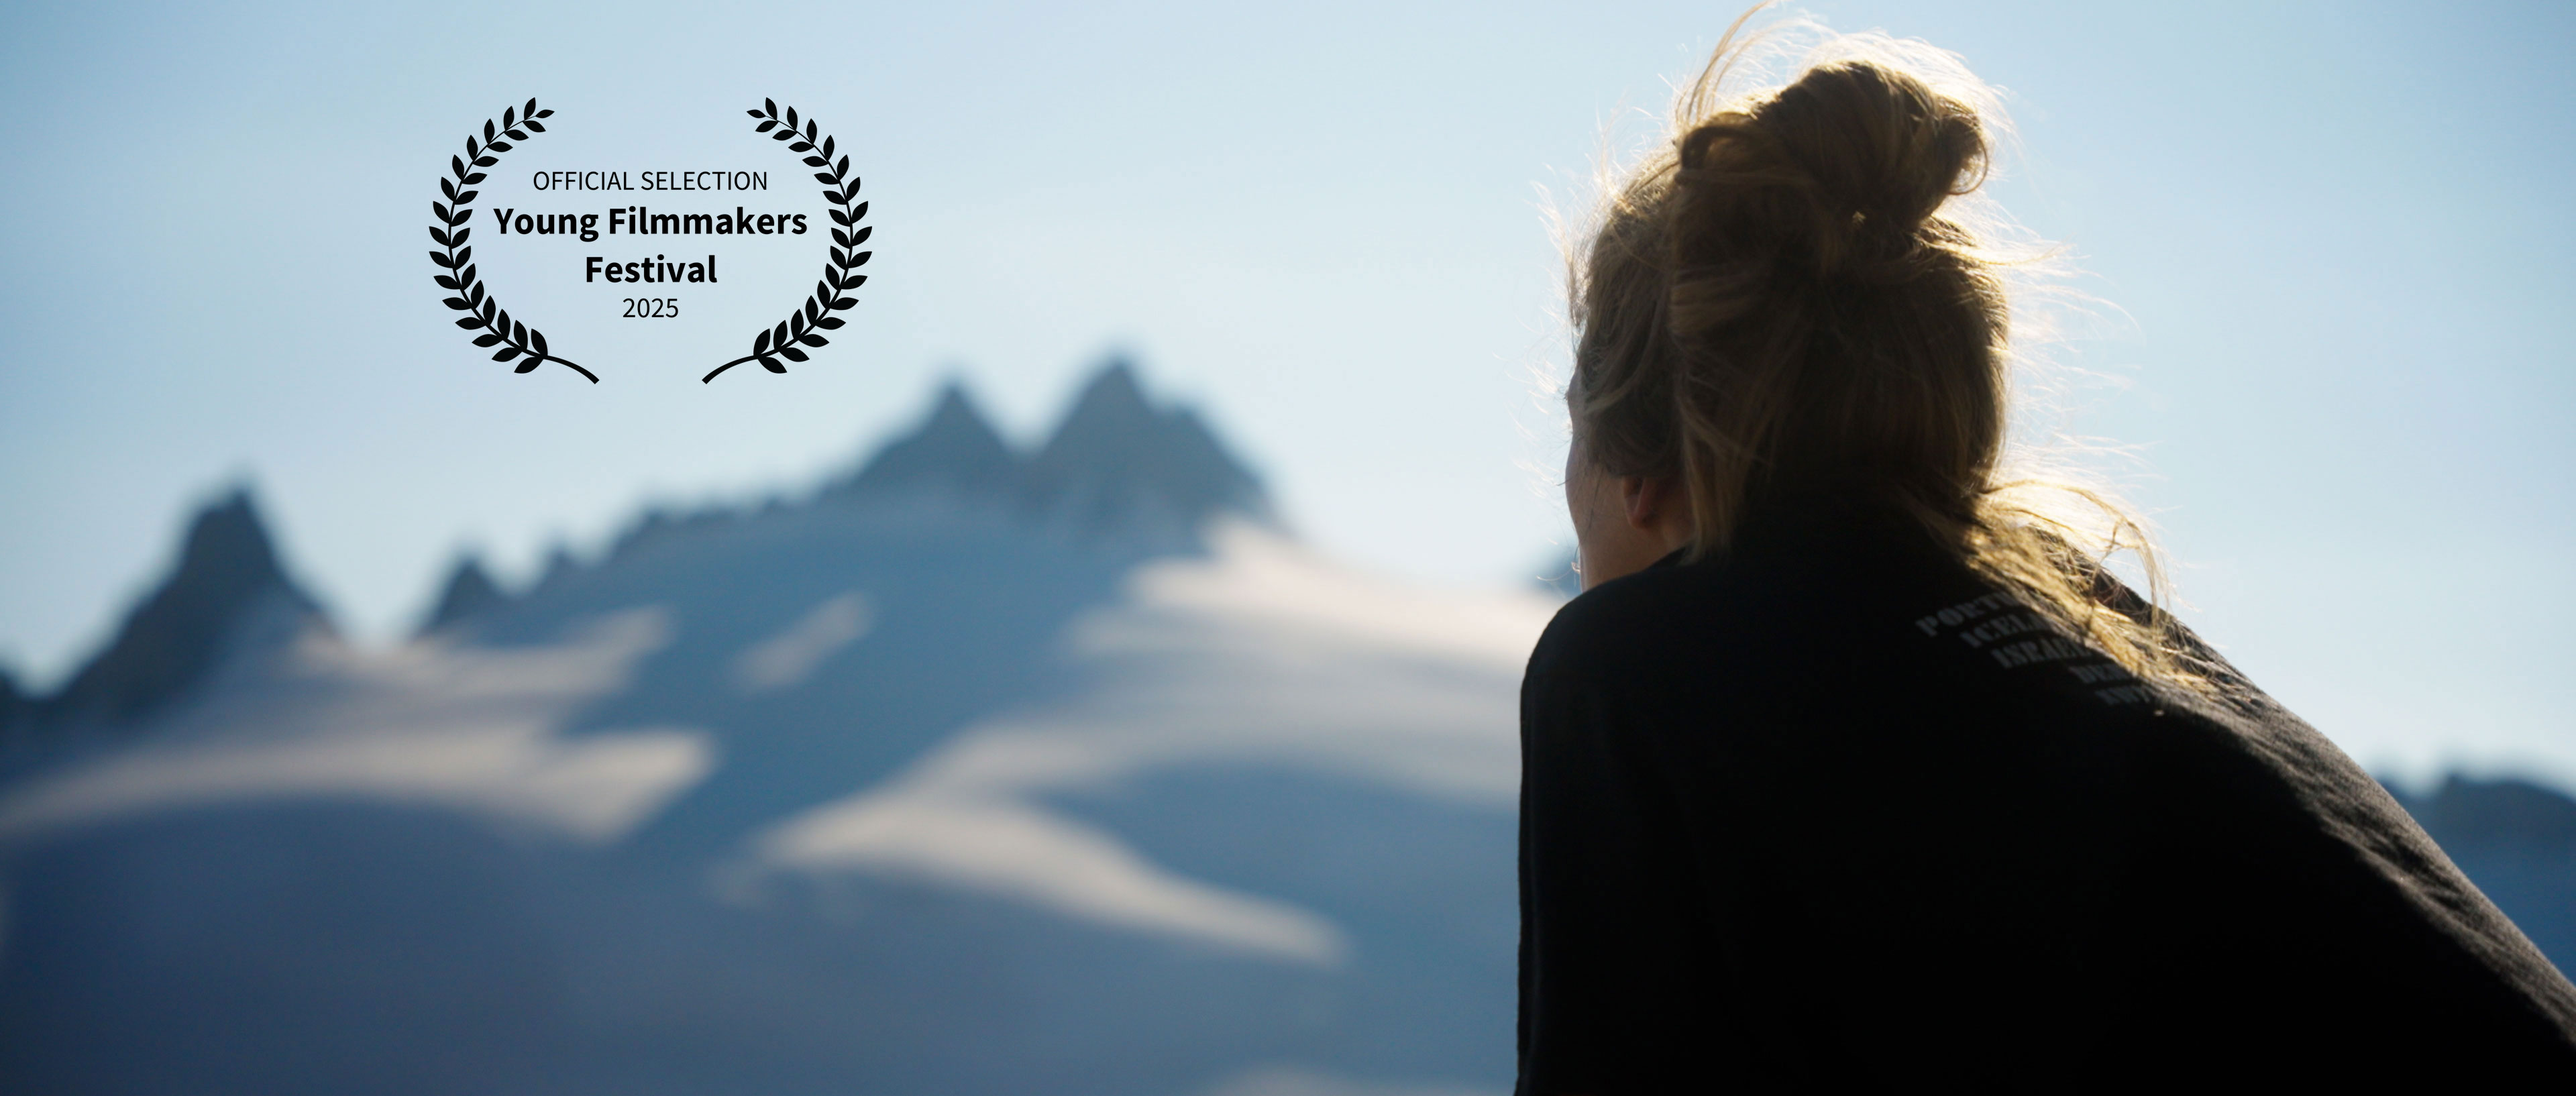
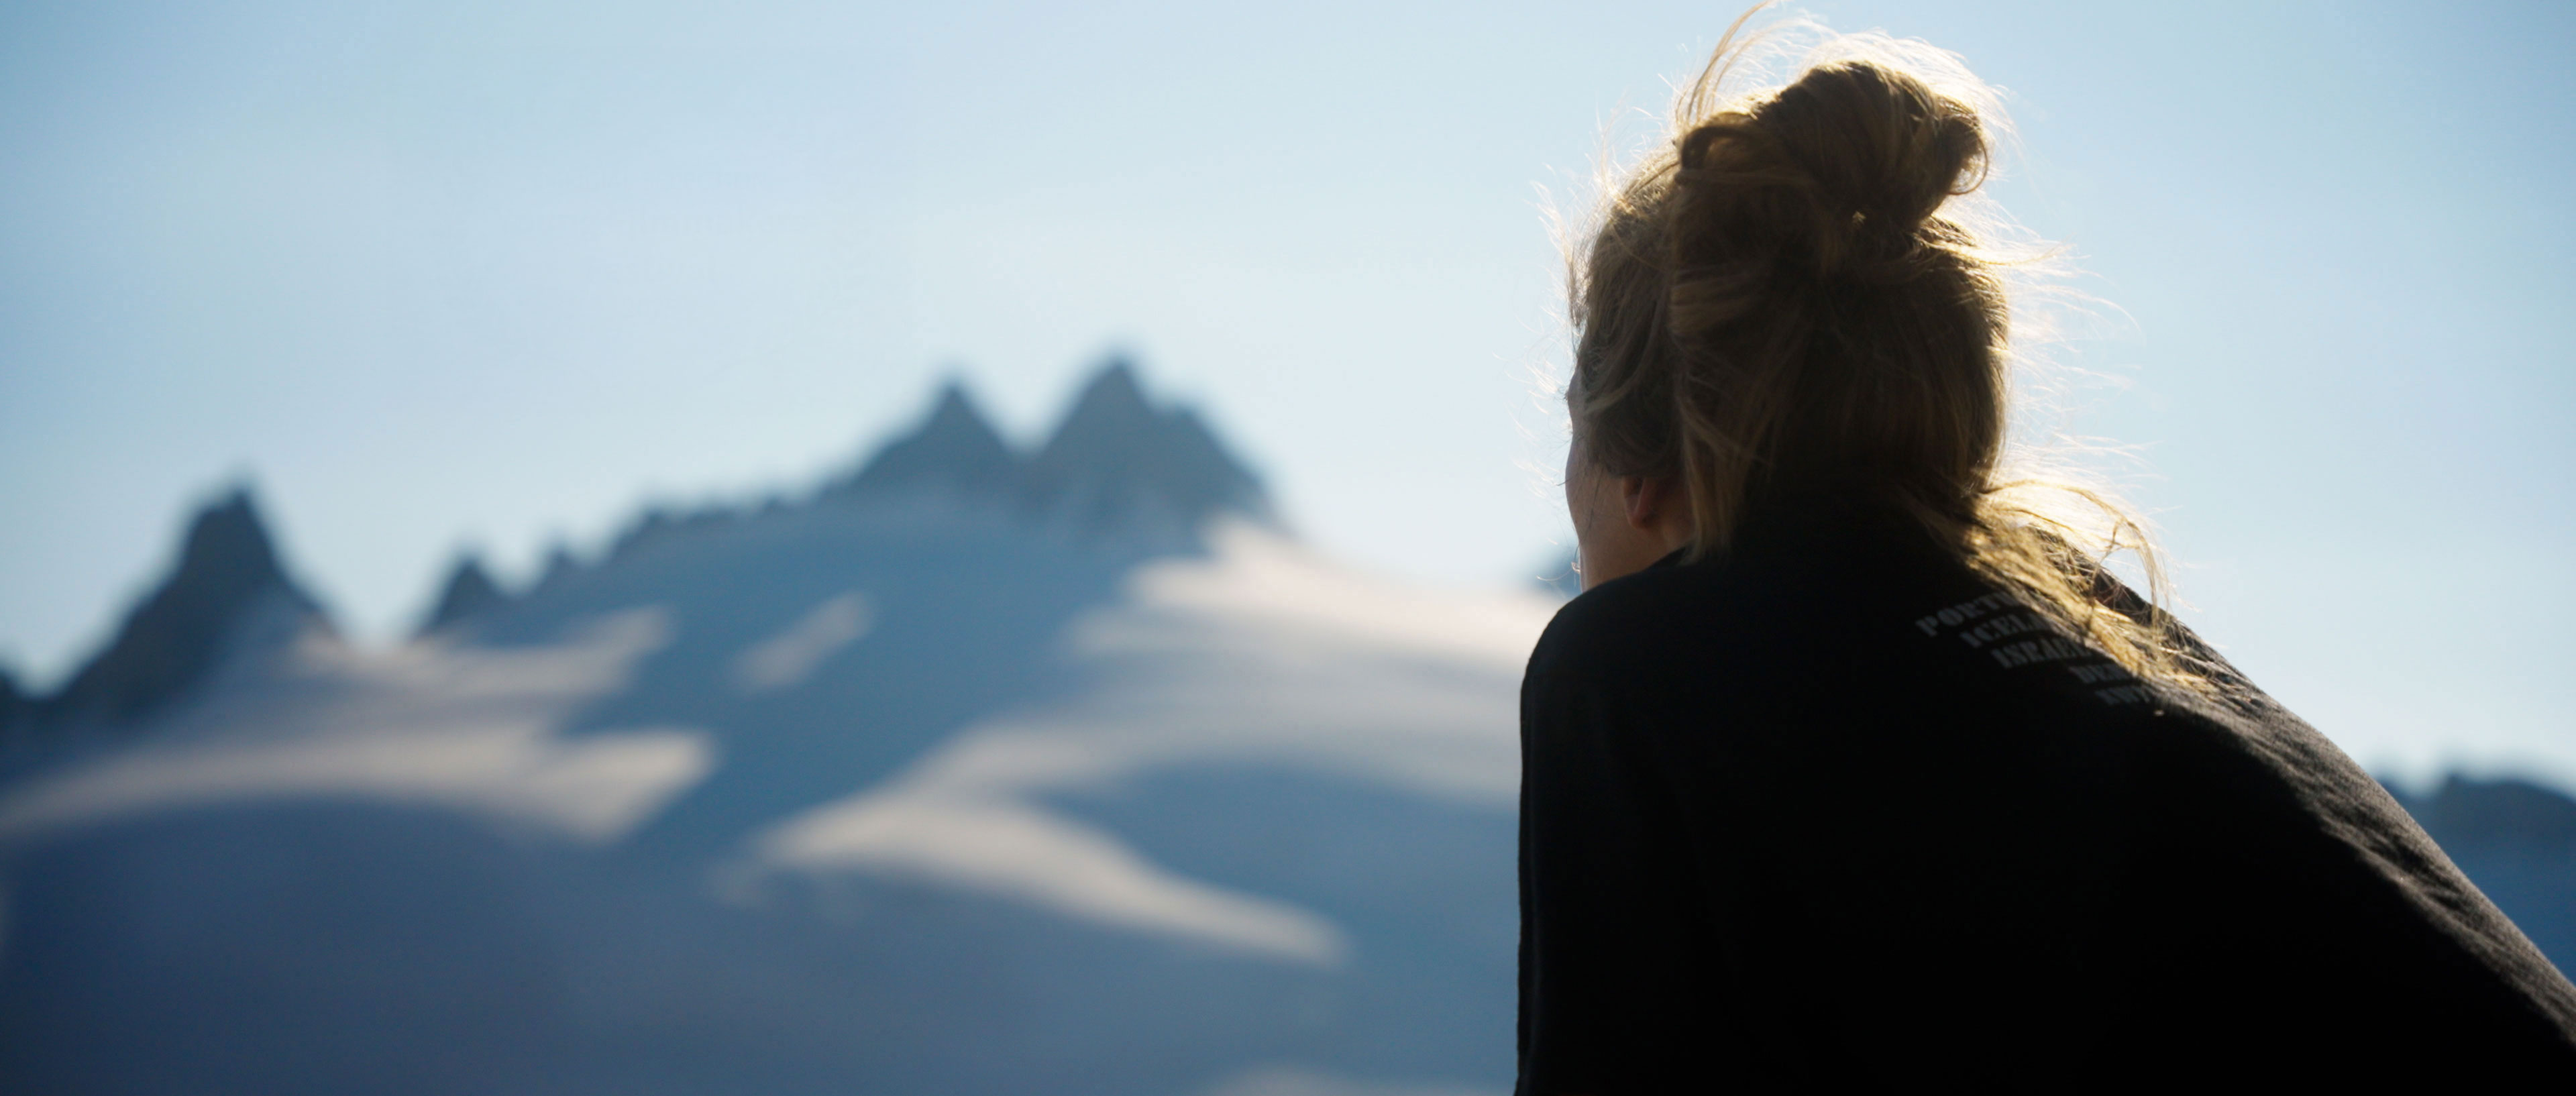
Auto update

Changed region(s): [[0.1562, 0.0936, 0.3438, 0.3433], [0.2812, 0.0936, 0.3125, 0.1248]]

diff --git a/projet5.html b/projet5.html
@@ -50,6 +50,7 @@
             <div class="project-description">
                 <p> <strong>Synopsis : </strong> Pamela partage sa vie entre la ville et la montagne. Pour elle, se mouvoir « entre ciel et terre » n’est pas un passe-temps. Il y a dans ces paysages quelque chose d’essentiel avec lequel elle a besoin de renouer. Dialogue avec soi. Dialogue avec l’environnement. La montagne peut-elle nous aider à retrouver des équilibres perdus ?</P>
                     <p><strong> Réalisation: </strong>Jonas Guyaux / <strong> Assistante réalisation : </strong> Emma Landet-Lacoste / <strong> Avec </strong> Pamela Ghislain, Carmen Lonfat, Christophher Stalmans / <strong> BO : </strong> Peperstreet Project (Jérôme Dejean & Christophe Janssen) / <strong> Avec le soutien </strong> du Club Alpin Belge Bruxelles Brabant et du camp de base </p>
+                    <p><strong>Séléctionné au Young Filmakers Festival de Bruxelles en 2025</strong></p>
             </div>
         </section>        
 

diff --git a/projet6.html b/projet6.html
@@ -50,6 +50,7 @@
             <div class="project-description">
                 <p><strong>Synopsis : </strong>Bouleversée par la compagnie de danse Dyptik que j’ai rencontrée en 2018, je décide de les suivre et de décortiquer leur processus créatif afin de comprendre comment il font pour susciter autant d’émotion. Pour celà, nous allons nous plonger au coeur de cette compagnie, que ce soit dans les temps de recherches et de travail, ou dans leur différentes créations.</p>
                 <p><strong> Réalisation : </strong> Emma Landet-Lacoste / Participation : Compagnie Dyptik (Souhail Marchiche et Mehdi Meghari) / Musique : Patrick De Oliveira</p>
+                <p><strong>Séléctionné au Brussels Short Film Festival 2025 et Faito Doc International School Film Festival</strong></p>
                 
             </div>
         </section>        
